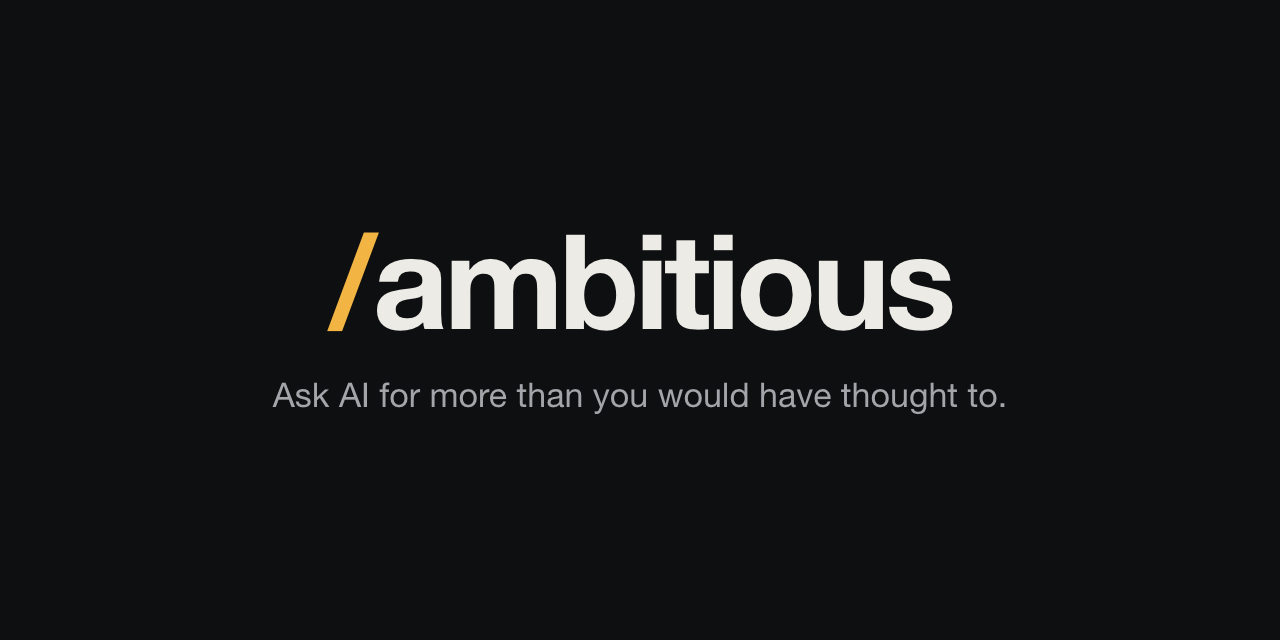
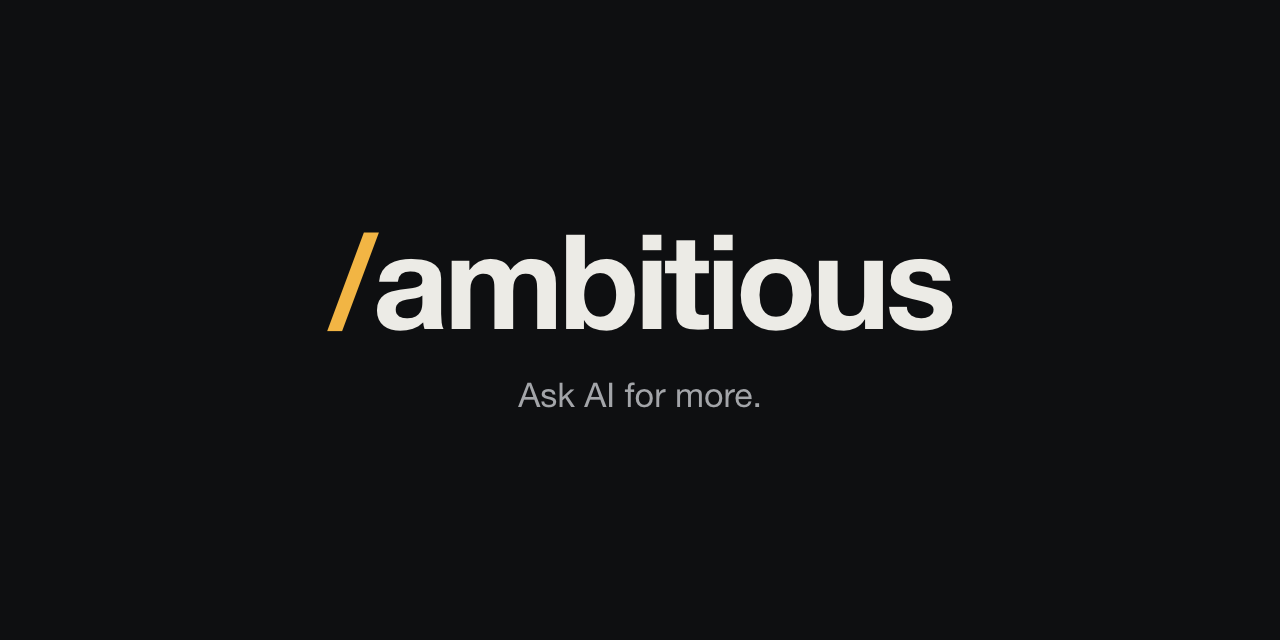
Tagline: Ask AI for more.

Changed region(s): [[0.2188, 0.5938, 0.7812, 0.6562]]

diff --git a/README.md b/README.md
@@ -1,6 +1,6 @@
 # Ambitious
 
-**An agent skill that helps you ask AI for more than you would have thought to.**
+**Ask AI for more.**
 
 *(Based on Felix Rieseberg's essay [How to be more ambitious: A tutorial for humans with models](https://felixrieseberg.com/how-to-be-more-ambitious-a-tutorial-for-humans-with-models/))*
 
